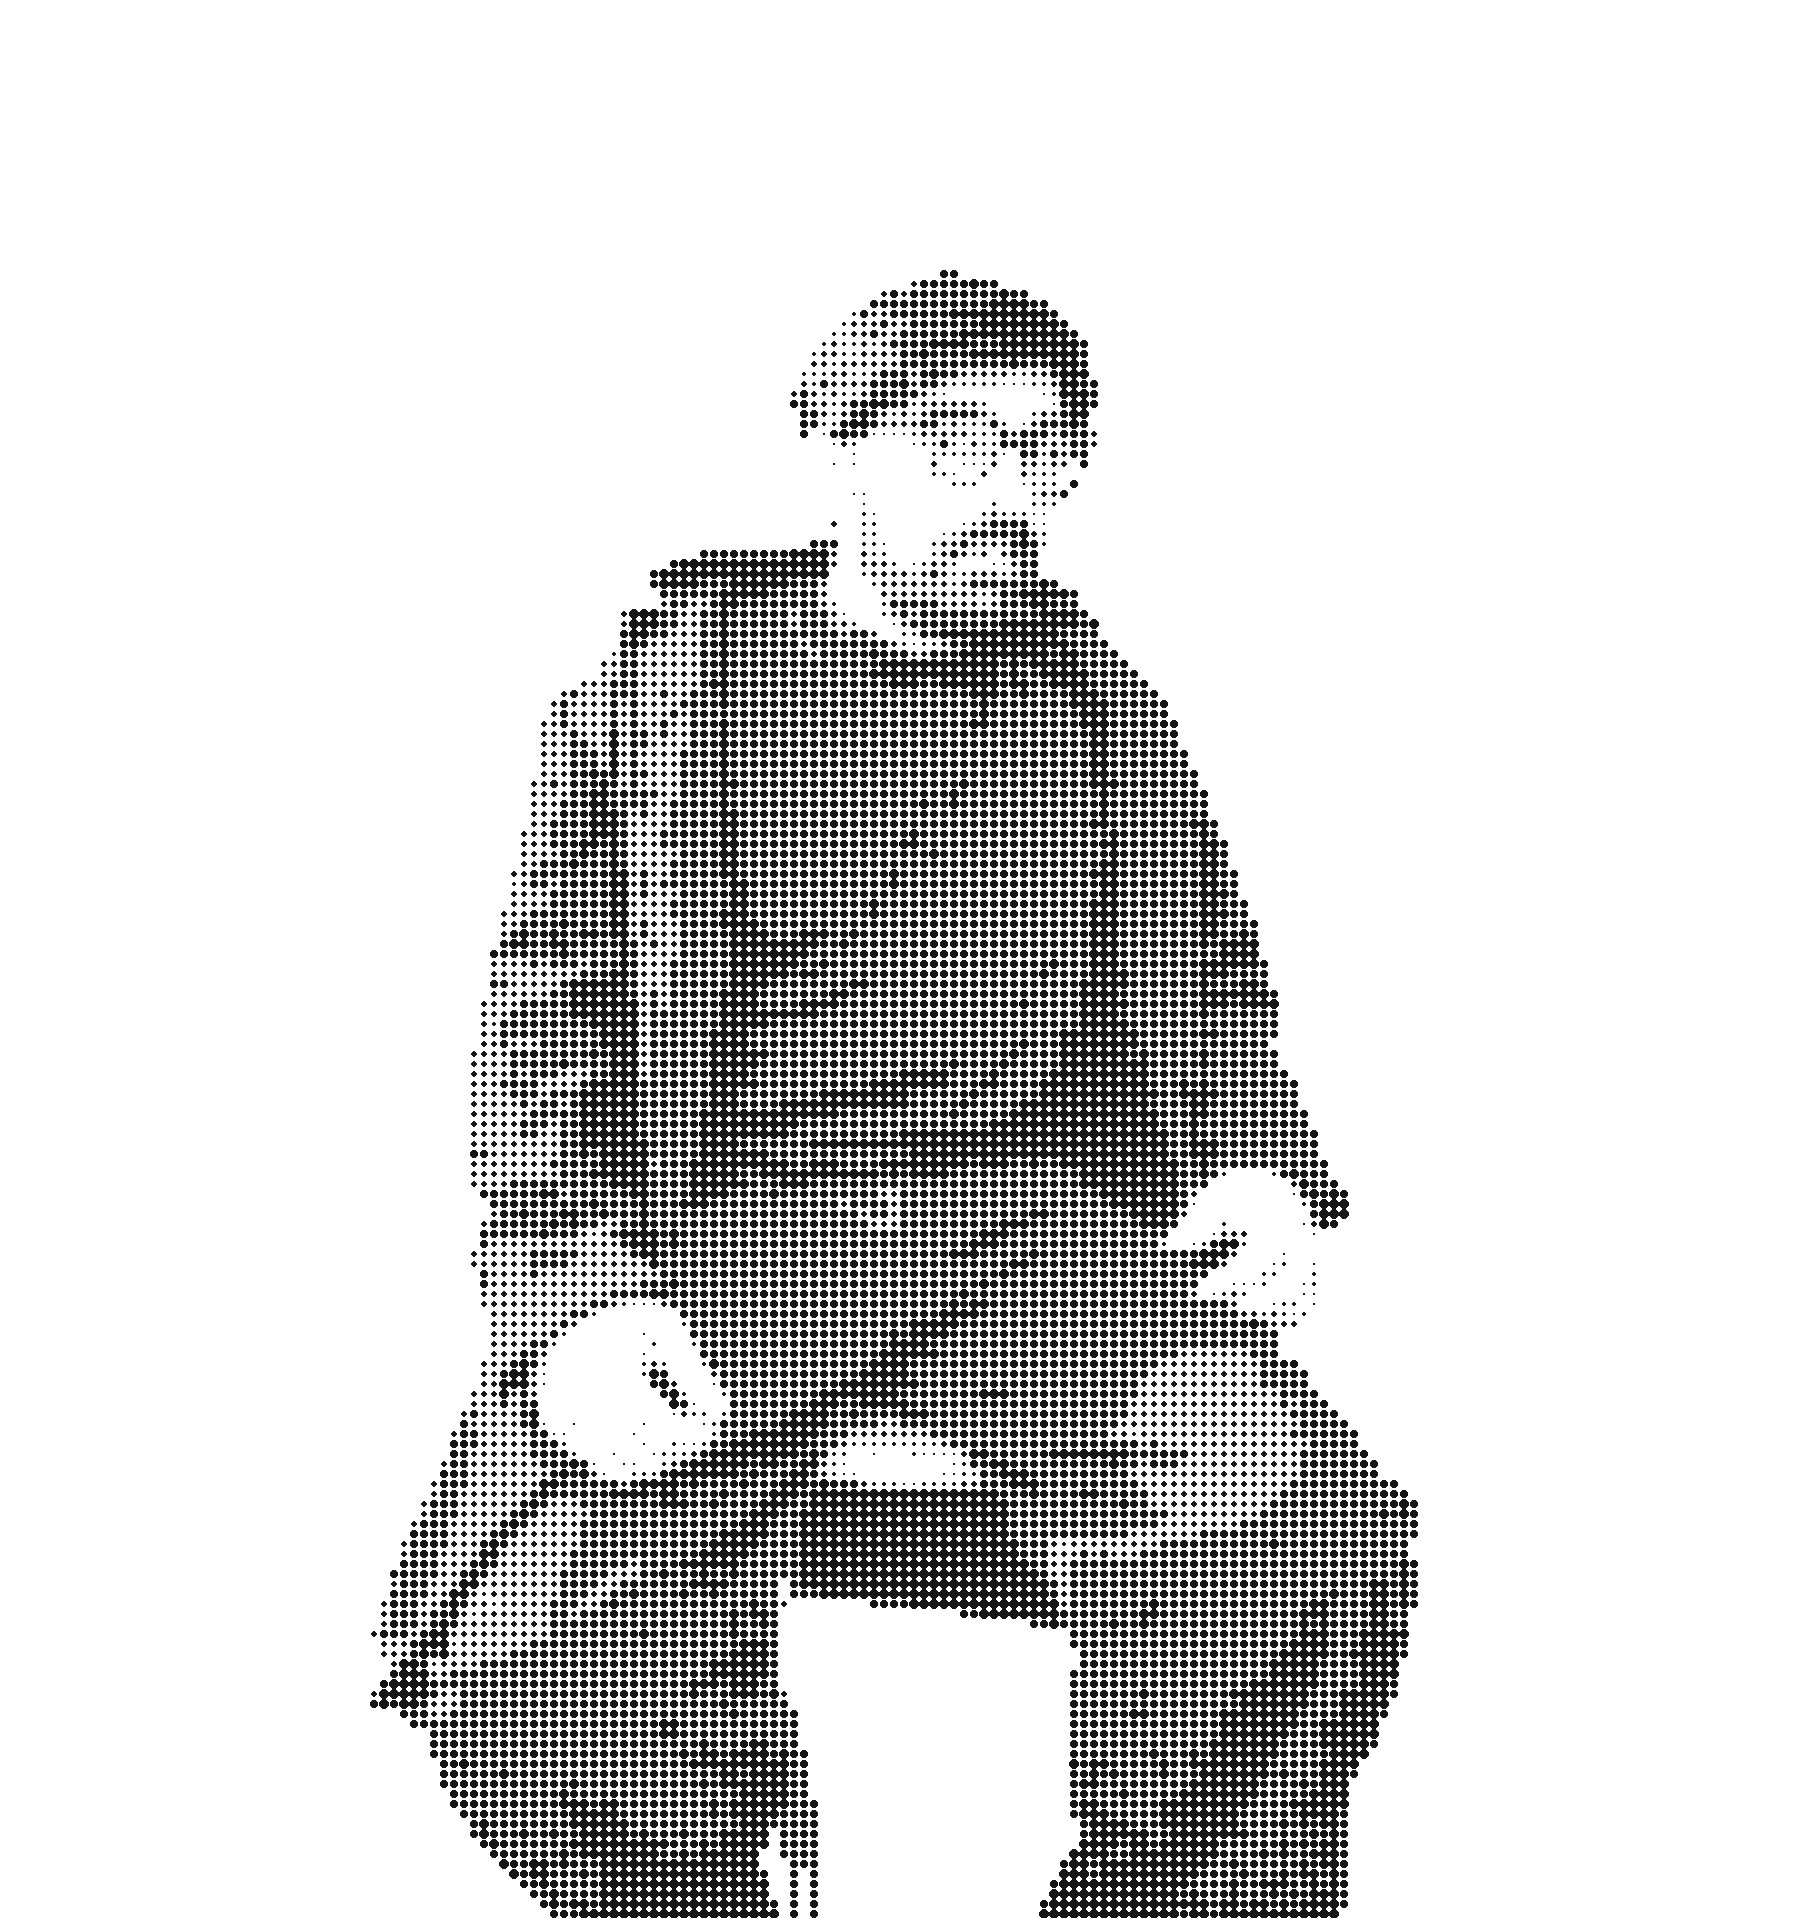
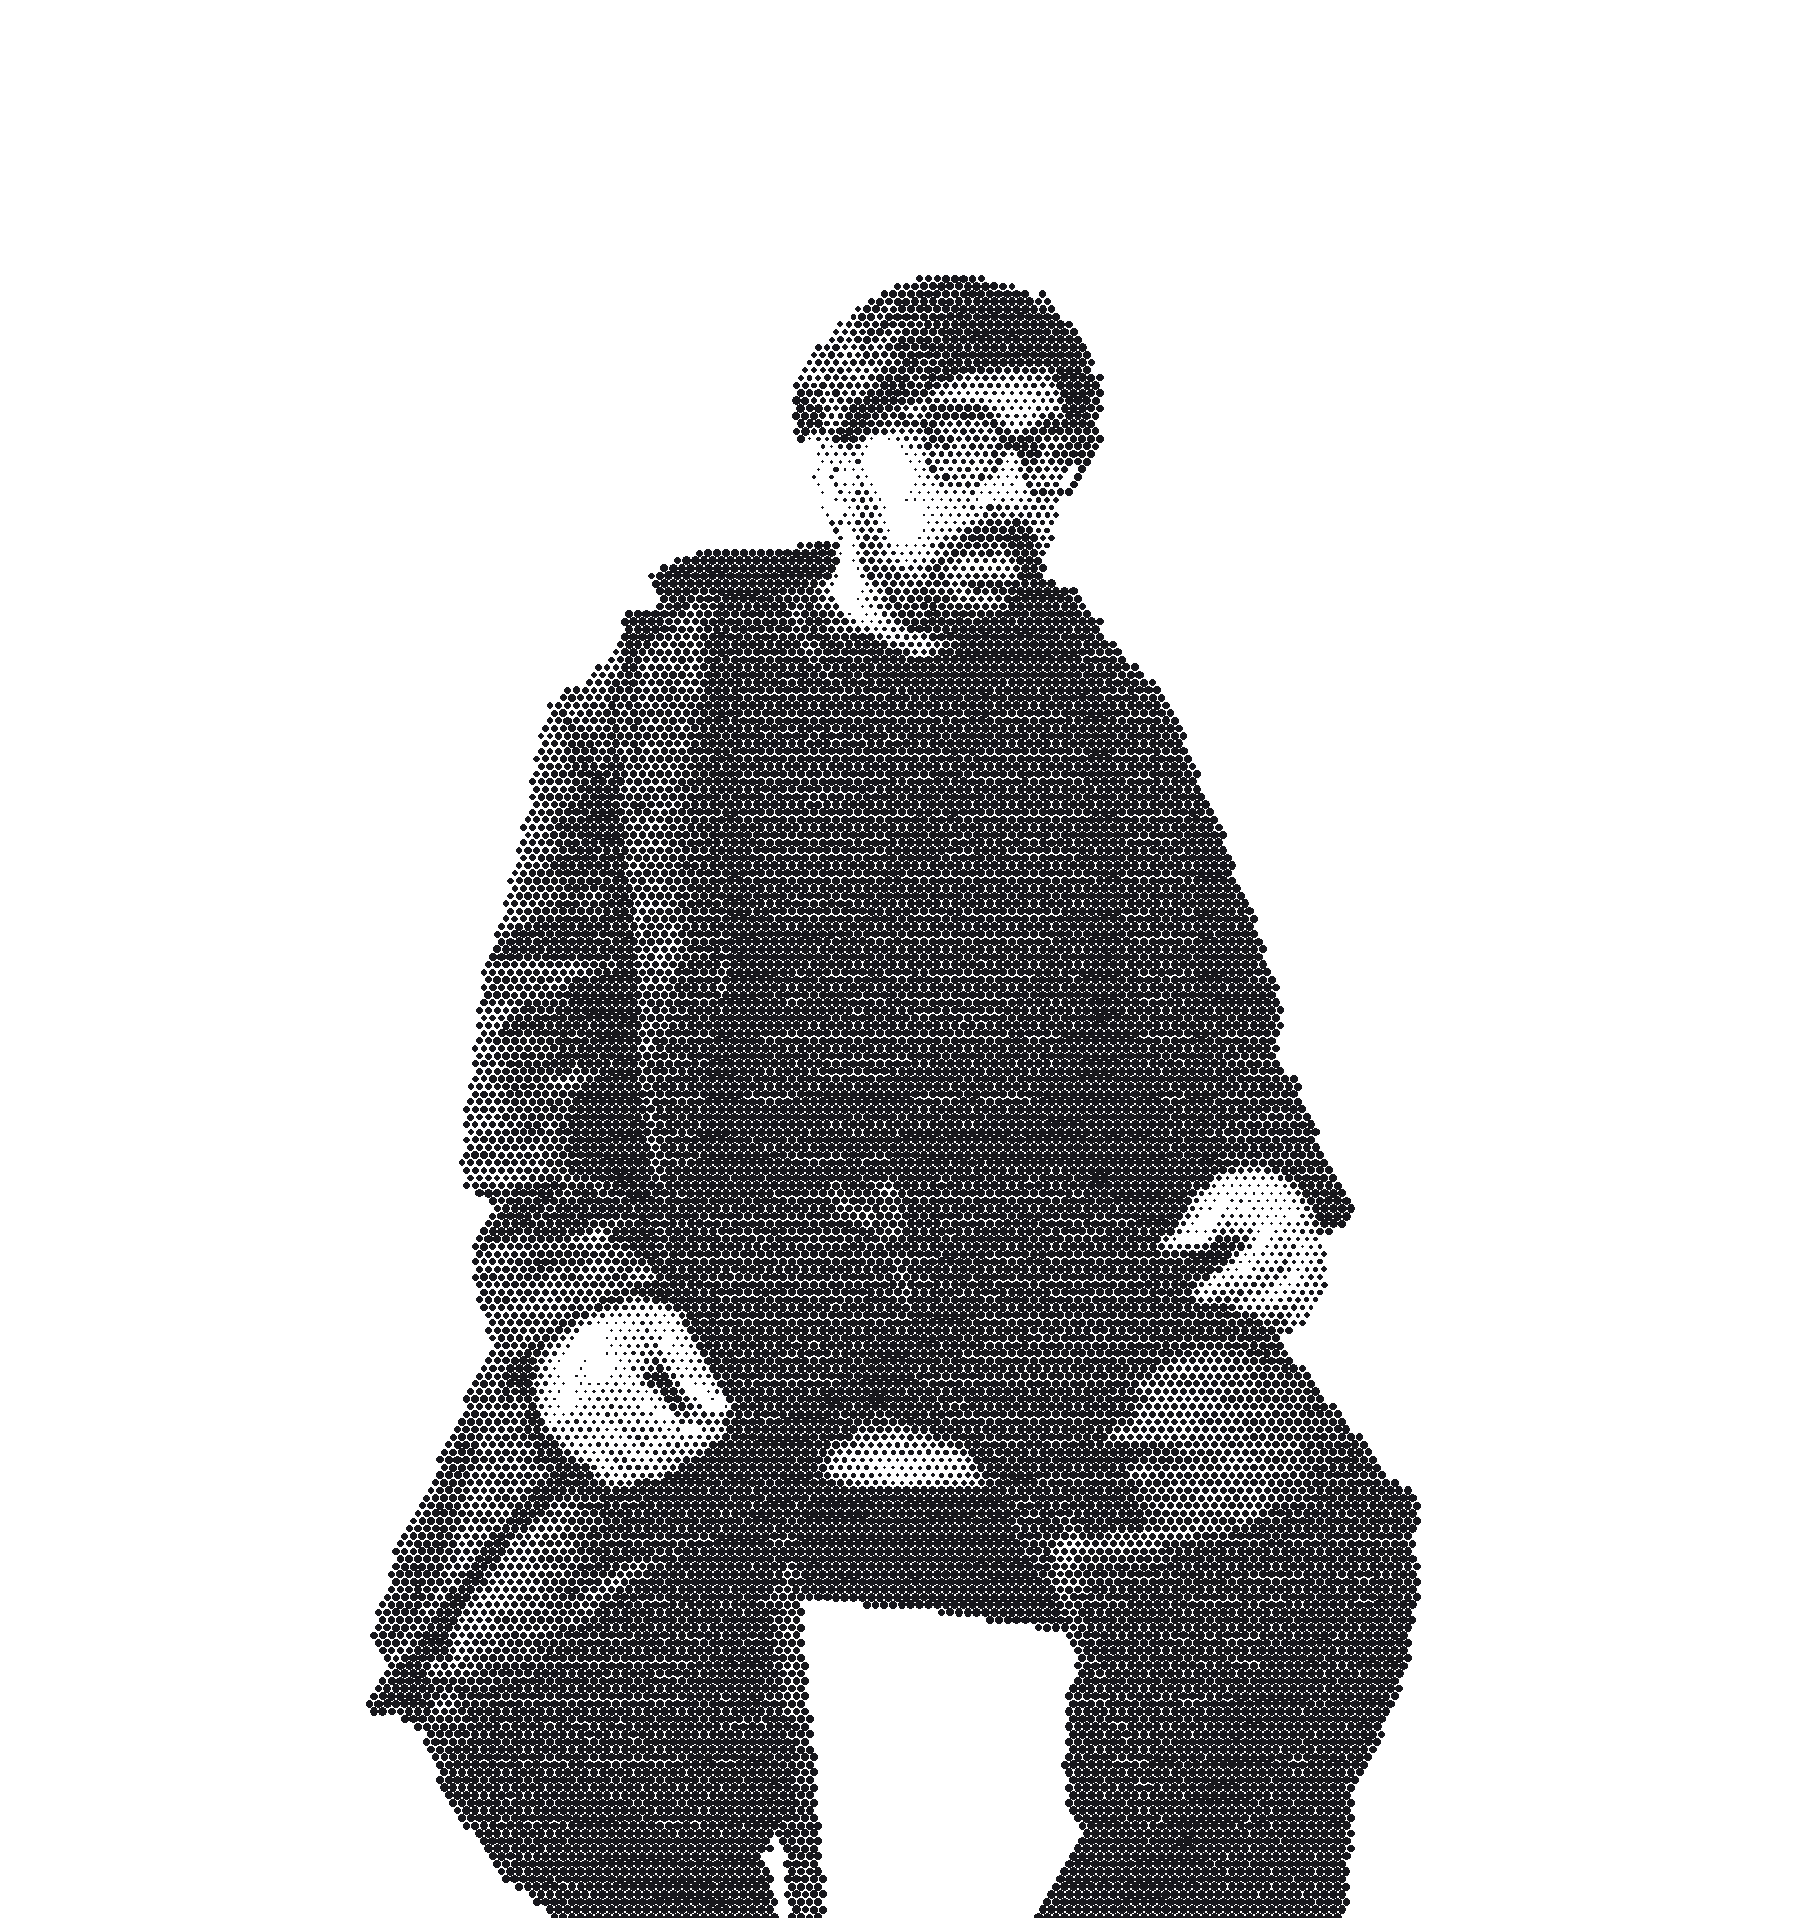
Update index.html

Changed region(s): [[0.1867, 0.123, 0.8089, 1.0]]

diff --git a/index.html b/index.html
@@ -1989,19 +1989,20 @@
   .ab2-photo{container-type:size;height:100%;min-width:0;display:flex;align-items:center;justify-content:center;}
   .ab2-disc{position:relative;width:min(100cqw,100cqh);aspect-ratio:1;border-radius:50%;overflow:hidden;box-sizing:border-box;border:1.5px solid #17171C;}
   :root[data-theme="dark"] .ab2-disc{border-color:#F8F7F4;}
-  .ab2-half{position:absolute;inset:0;display:flex;align-items:flex-end;justify-content:center;transition:clip-path 1s cubic-bezier(.65,0,.35,1);}
-  .ab2-half img{display:block;height:88%;width:auto;max-width:none;margin-bottom:4%;}
-  .ab2-half--color{background:radial-gradient(circle at 50% 42%,#B30E16 0%,#9A0911 45%,#760207 100%);clip-path:inset(0 0 0 50%);}
-  .ab2-half--color img{-webkit-mask-image:linear-gradient(to right,transparent,#000 9%,#000 91%,transparent),linear-gradient(to bottom,transparent,#000 9%,#000 94%,transparent);
-    -webkit-mask-composite:source-in;mask-image:linear-gradient(to right,transparent,#000 9%,#000 91%,transparent),linear-gradient(to bottom,transparent,#000 9%,#000 94%,transparent);mask-composite:intersect;}
-  .ab2-half--dots{background:#F8F7F4;clip-path:inset(0 50% 0 0);}
-  :root[data-theme="dark"] .ab2-half--dots{background:#17171C;}
-  :root[data-theme="dark"] .ab2-half--dots img{filter:invert(1);}
+  .ab2-disc{background:radial-gradient(circle at 50% 40%,#B5101A 0%,#9E0B13 50%,#7A050B 100%);cursor:pointer;}
+  .ab2-half{position:absolute;inset:0;display:flex;align-items:flex-end;justify-content:center;
+    transition:opacity .9s cubic-bezier(.4,0,.2,1),transform 1.2s cubic-bezier(.2,.7,.2,1);}
+  .ab2-half img{display:block;height:100%;width:auto;max-width:none;
+    -webkit-mask-image:linear-gradient(to right,transparent,#000 7%,#000 93%,transparent);mask-image:linear-gradient(to right,transparent,#000 7%,#000 93%,transparent);}
+  .ab2-half--color{opacity:0;transform:scale(1.03);transform-origin:50% 100%;}
+  .ab2-half--dots{opacity:1;}
+  .ab2-photo.is-real .ab2-half--color{opacity:1;transform:none;}
+  .ab2-photo.is-real .ab2-half--dots{opacity:0;}
   @media (hover:hover){
-    .ab2-photo:hover .ab2-half--color{clip-path:inset(0 0 0 0);}
-    .ab2-photo:hover .ab2-half--dots{clip-path:inset(0 100% 0 0);}
+    .ab2-photo:hover .ab2-half--color{opacity:1;transform:none;}
+    .ab2-photo:hover .ab2-half--dots{opacity:0;}
   }
-  @media (prefers-reduced-motion:reduce){ .ab2-half{transition:none;} }
+  @media (prefers-reduced-motion:reduce){ .ab2-half{transition:opacity .3s linear;transform:none !important;} }
   @media (max-width:860px){
     .ab2{display:flex;flex-direction:column;align-items:stretch;min-height:0;padding:24px 20px 48px;gap:32px;}
     .ab2-text{max-width:none;}
@@ -5064,7 +5065,7 @@
       </div>
     </div>
     <div class="ab2-row">
-      <div class="ab2-photo"><div class="ab2-disc" role="img" aria-label="Saikiran Desai, portrait — half full colour, half dotted">
+      <div class="ab2-photo"><div class="ab2-disc" role="img" aria-label="Saikiran Desai, portrait — dotted, revealing the photo on hover or tap">
         <div class="ab2-half ab2-half--dots" aria-hidden="true"><img src="assets/images/about-portrait-dots.png" width="1800" height="1918" alt=""></div>
         <div class="ab2-half ab2-half--color" aria-hidden="true"><img src="assets/images/image-022-67f0cd6926e6.jpg" width="900" height="959" alt=""></div>
       </div></div>
@@ -12079,5 +12080,6 @@ document.addEventListener('click',function(e){ var a=e.target.closest&&e.target.
   } else { gate.classList.add('is-active'); }
 })();
 </script>
+<script>(function(){var p=document.querySelector('.ab2-photo');if(!p)return;p.addEventListener('click',function(){if(!matchMedia('(hover:hover)').matches)p.classList.toggle('is-real');});})();</script>
 </body>
 </html>
